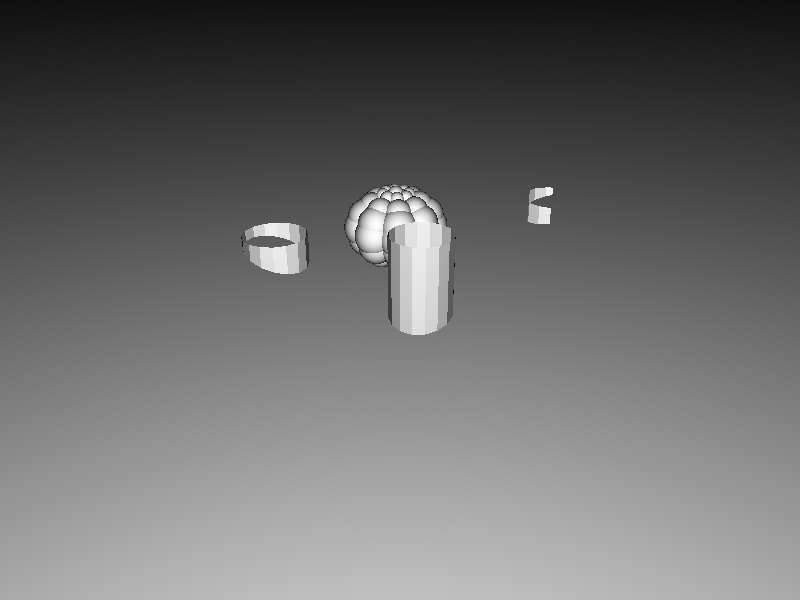
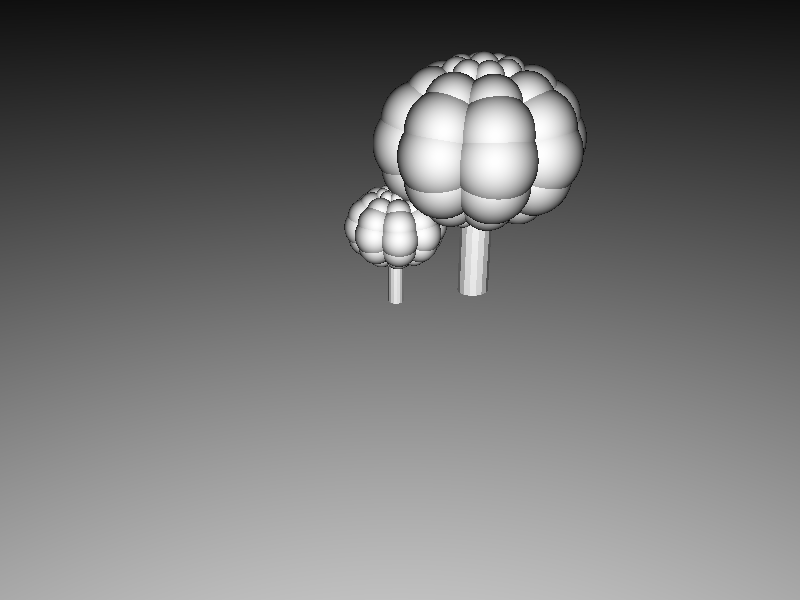
transformation a little bit more correct now

Changed region(s): [[0.4688, 0.09, 0.75, 0.57], [0.3125, 0.36, 0.4062, 0.48]]

diff --git a/CG1-skeleton/rt/primmod/instance.cpp b/CG1-skeleton/rt/primmod/instance.cpp
@@ -1,11 +1,12 @@
 #include <rt/primmod/instance.h>
 #include <iostream>
+
 namespace rt{
 
 	Instance::Instance(Primitive* content): content_(content)
 	{
 		transformation = Matrix::identity();
-
+		invTransformation = Matrix::identity();
 	}
 	
 	Primitive* Instance::content()
@@ -21,7 +22,6 @@ namespace rt{
 
 		min_p = transformation*min_p;
 		max_p = transformation*max_p;
-
 
 		return Point(
 			(min_p.x + max_p.x) / 2,
@@ -52,29 +52,28 @@ namespace rt{
 		//3.transform the intersection point with the transformation matrix
 		//4.transform the intersection normal with the transposed of the inverse transformation matrix
 
-		float previousBestDistance_;
-		Ray inverse_ray;
-		inverse_ray.o = transformation.invert() * ray.o;
-		inverse_ray.d = transformation.invert() * ray.d;
+		float previousBestDistance_ = FLT_MAX;
+		Ray inverse_ray(invTransformation * ray.o, (invTransformation * ray.d).normalize());
 		
+		if(previousBestDistance < FLT_MAX){
+			Point p = ray.getPoint(previousBestDistance);
+			p = invTransformation * p;
+			previousBestDistance_ = (p - inverse_ray.o).length();
+		}
 
-		Point p = ray.getPoint(previousBestDistance);
-		p = transformation.invert() * p;
-		previousBestDistance_ = (p-inverse_ray.o).length();
-
-		Intersection intersect;
-		intersect = content_->intersect(inverse_ray,previousBestDistance_);
+		Intersection intersect = content_->intersect(inverse_ray, previousBestDistance_);
 		if(intersect)
 		{
-			Point transformed_intersection;
-			Vector transformed_normal;
-			transformed_normal = transformation.invert().transpose()*intersect.normal();
-			transformed_intersection = transformation*intersect.local();
-			float distance = (transformed_intersection -inverse_ray.o).length();
+			Point hitPoint = transformation * intersect.hitPoint();
+			Vector normal = (invTransformation.transpose() * intersect.normal()).normalize();
+			Point local = hitPoint - (getCenter() - Point::rep(0)) ;
+			//
+			//float distance = (transformed_intersection -inverse_ray.o).length();
+			float distance = (hitPoint - ray.o).length();
 			/*intersect._normal = transformed_normal.normalize();
 			intersect._local = transformed_intersection;*/
 			//return intersect;
-			return Intersection(distance,inverse_ray,(Solid*)content_,transformed_normal.normalize(),transformed_intersection);
+			return Intersection(distance, ray, (Solid*)content_, normal, local);
 		}
 		return Intersection::failure();
 	}
@@ -93,6 +92,7 @@ namespace rt{
 	void Instance::reset()
 	{
 		transformation = transformation.identity();
+		invTransformation = transformation;
 	}
 
     void Instance::translate(const Vector& t)
@@ -103,7 +103,29 @@ namespace rt{
 		translate[1][3] = t.y;
 		translate[2][3] = t.z;
 
-		transformation = product(transformation,translate);
+		transformation = product(translate, transformation);
+		invTransformation = transformation.invert();
+
+		for(int i = 0; i < 4;i++){
+			for(int j = 0; j < 4;j++)
+				std::cout << transformation [i][j] << " ";
+			std::cout << std::endl;
+		}
+		std::cout << std::endl;
+		for(int i = 0; i < 4;i++){
+			for(int j = 0; j < 4;j++)
+				std::cout << invTransformation [i][j] << " ";
+			std::cout << std::endl;
+		}
+		std::cout << std::endl;
+		Matrix id = product(transformation, invTransformation);
+		for(int i = 0; i < 4;i++){
+			for(int j = 0; j < 4;j++)
+				std::cout << id [i][j] << " ";
+			std::cout << std::endl;
+		}
+		int ii = 0;
+		//std::cin >> ii; 
 	}
 
     void Instance::rotate(const Vector& axis, float angle)
@@ -123,7 +145,8 @@ namespace rt{
 		rotation_matrix[1][2] = axis_.y*axis_.z*(1-cos(angle)) - axis_.x*sin(angle);
 		rotation_matrix[2][2] = cos(angle) + axis_.z*axis_.z*(1-cos(angle));
 
-		transformation = product(transformation,rotation_matrix);
+		transformation = product(rotation_matrix, transformation);
+		invTransformation = transformation.invert();
 	}
 
     void Instance::scale(float scale)
@@ -134,7 +157,8 @@ namespace rt{
 		scale_matrix[1][1] = scale;
 		scale_matrix[2][2] = scale;
 
-		transformation = product(transformation,scale_matrix);
+		transformation = product(scale_matrix, transformation);
+		invTransformation = transformation.invert();
 	}
 
     void Instance::scale(const Vector& scale)
@@ -144,7 +168,8 @@ namespace rt{
 		scale_matrix[0][0] = scale.x;
 		scale_matrix[1][1] = scale.y;
 		scale_matrix[2][2] = scale.z;
-		transformation = product(transformation,scale_matrix);
+		transformation = product(scale_matrix, transformation);
+		invTransformation = transformation.invert();
 	}
 
 }

diff --git a/CG1-skeleton/core/matrix.cpp b/CG1-skeleton/core/matrix.cpp
@@ -66,7 +66,7 @@ namespace rt {
 				if (i==j)
 					m[i][j] = 1;
 				else
-				m[i][j] = 0;
+					m[i][j] = 0;
 			}
 
 		return m;
@@ -83,7 +83,7 @@ namespace rt {
 		 if (idx==3)
 			 return row3;
 		 if (idx>3)
-			 return Float4();
+			 return Float4::rep(0);
 
 	 }
 
@@ -98,7 +98,7 @@ namespace rt {
 		 if (idx==3)
 			 return row3;
 		 if (idx>3)
-			 return Float4();
+			 return Float4::rep(0);
 	 }
 		
 	  Matrix Matrix::operator+(const Matrix& b) const
@@ -164,8 +164,6 @@ namespace rt {
 		   const Matrix& m = *this;
 		   Float4 result = m*Float4(b.x,b.y,b.z,1);
 		   return Point(result.x,result.y,result.z);
-
-
 	   }
 
 	    bool Matrix::operator==(const Matrix& b) const
@@ -219,10 +217,10 @@ namespace rt {
 			Matrix result;
 
 			for(int i = 0; i < 4; i++){ 
-			for(int j = 0; j < 4; j++){ 
-			for(int x = 0; x < 4; x++) 
-			result[i][j] += a[i][x] * b[x][j]; 
-			} 
+				for(int j = 0; j < 4; j++){ 
+					for(int x = 0; x < 4; x++) 
+						result[i][j] += a[i][x] * b[x][j]; 
+				} 
 			} 
 
 			return result;

diff --git a/CG1-skeleton/main/a_instancing.cpp b/CG1-skeleton/main/a_instancing.cpp
@@ -69,6 +69,11 @@ void a_instancing() {
     Instance* normal = new Instance(tree);
     scene->add(normal);
 
+	Instance* itree = new Instance(tree);
+    itree->translate(Vector(10.0f, 0.0f, 0.0f));
+	scene->add(itree);
+
+	/*
     float circleRadius = 18.0f;
     for (int i = 0; i<11; ++i) {
         float angle = 2.0f*i*pi / 11.0f;
@@ -76,7 +81,7 @@ void a_instancing() {
         itree->scale(Vector(1.0f,1.0f + sin(i*1.0f)*0.3f,1.0f));
         itree->translate(Vector(sin(angle) * circleRadius, 0.0f, cos(angle) * circleRadius));
         scene->add(itree);
-    }
+    }*/
 
     /*{
     Instance* broken = new Instance(tree);

diff --git a/CG1-skeleton/rt/primmod/instance.h b/CG1-skeleton/rt/primmod/instance.h
@@ -10,6 +10,7 @@ class Instance : public Primitive {
 public:
 
 	Matrix transformation;
+	Matrix invTransformation;
 	Primitive* content_;
     Instance(Primitive* content);
     Primitive* content();
